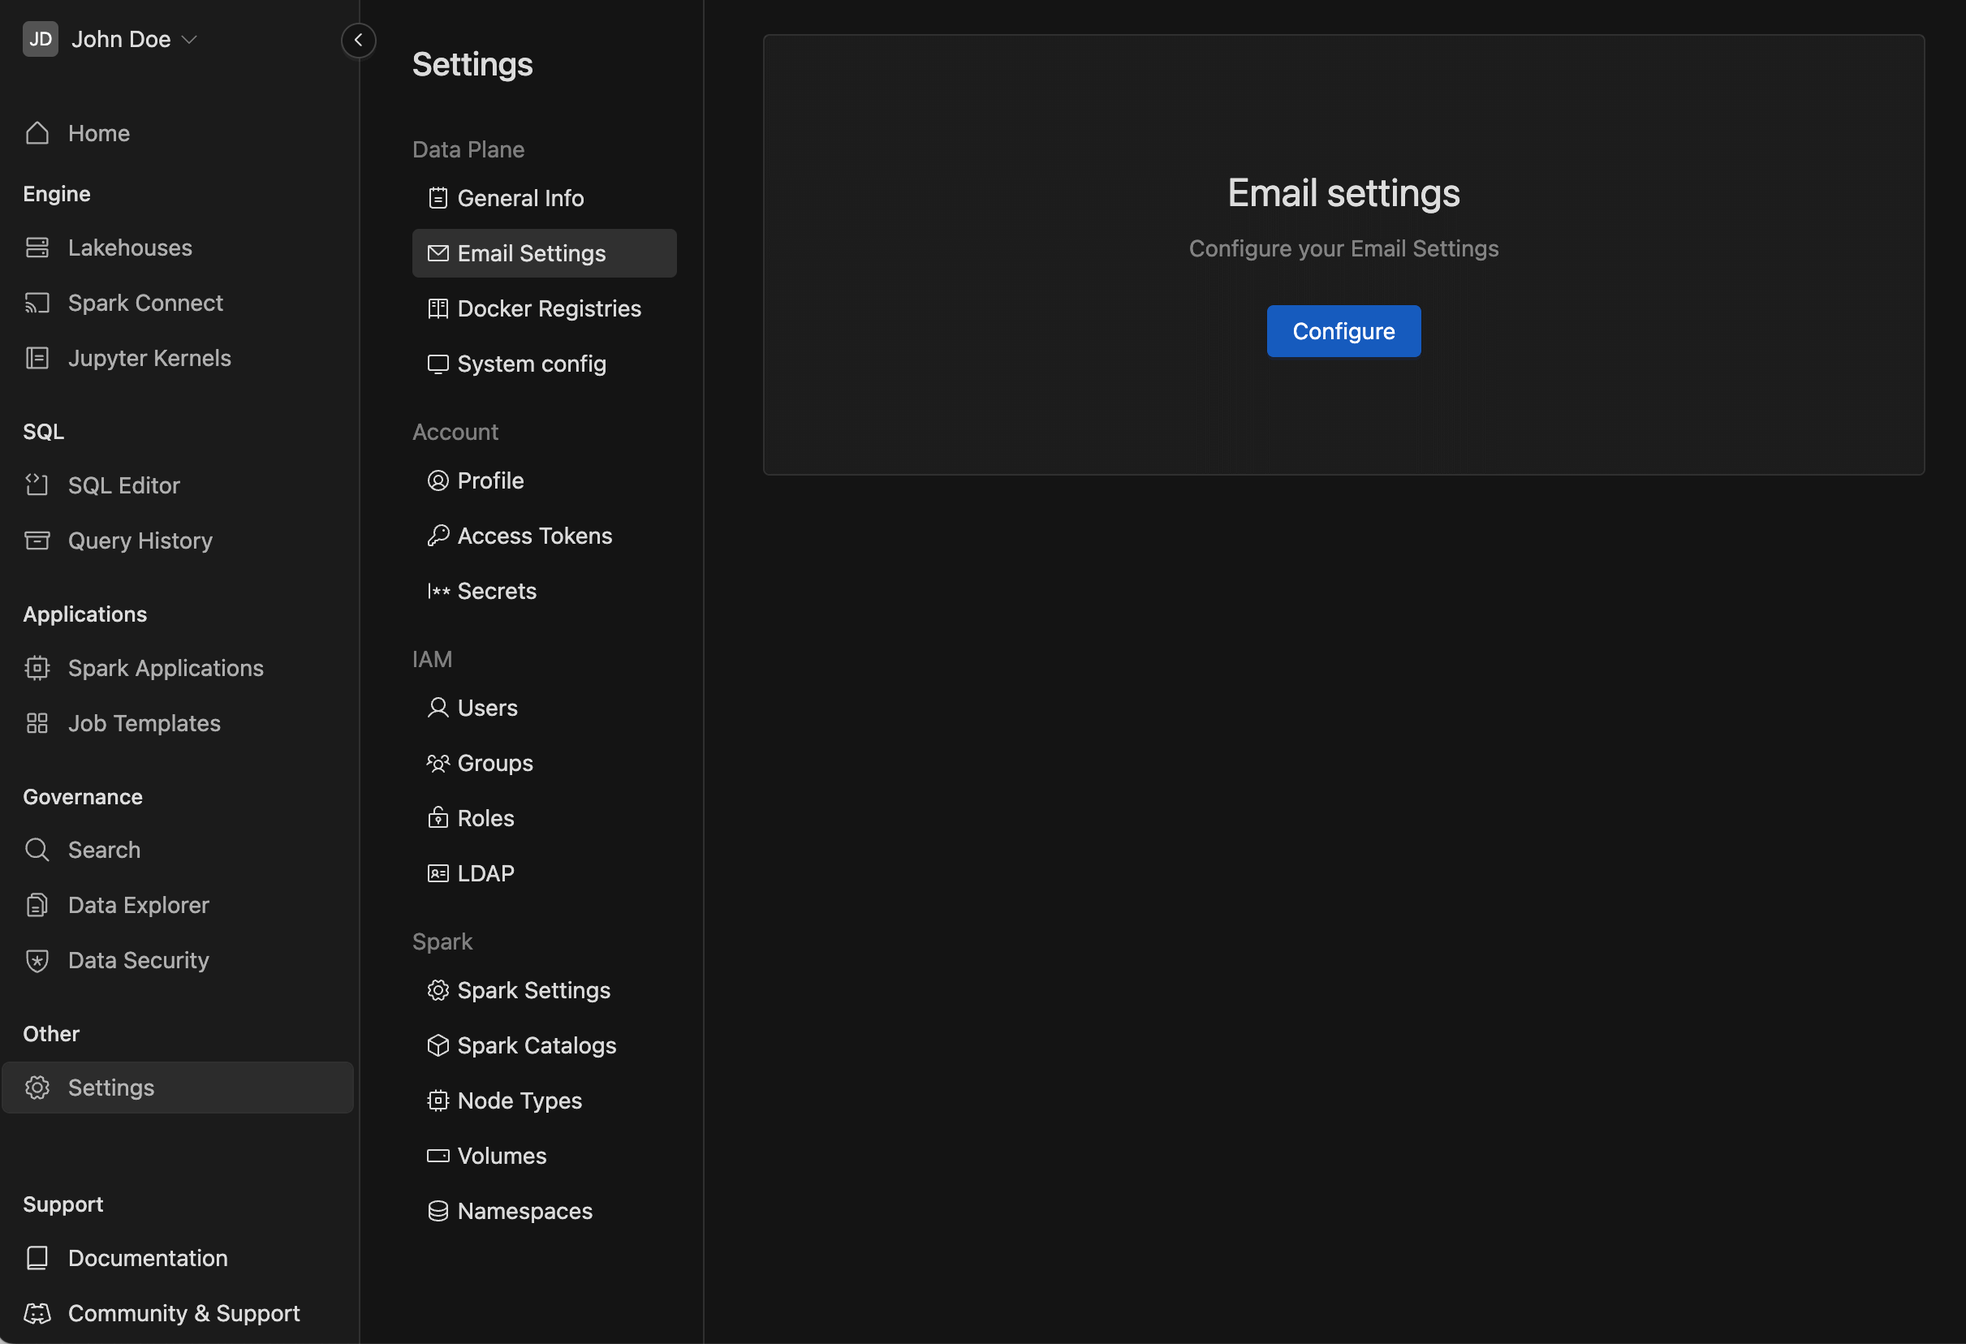
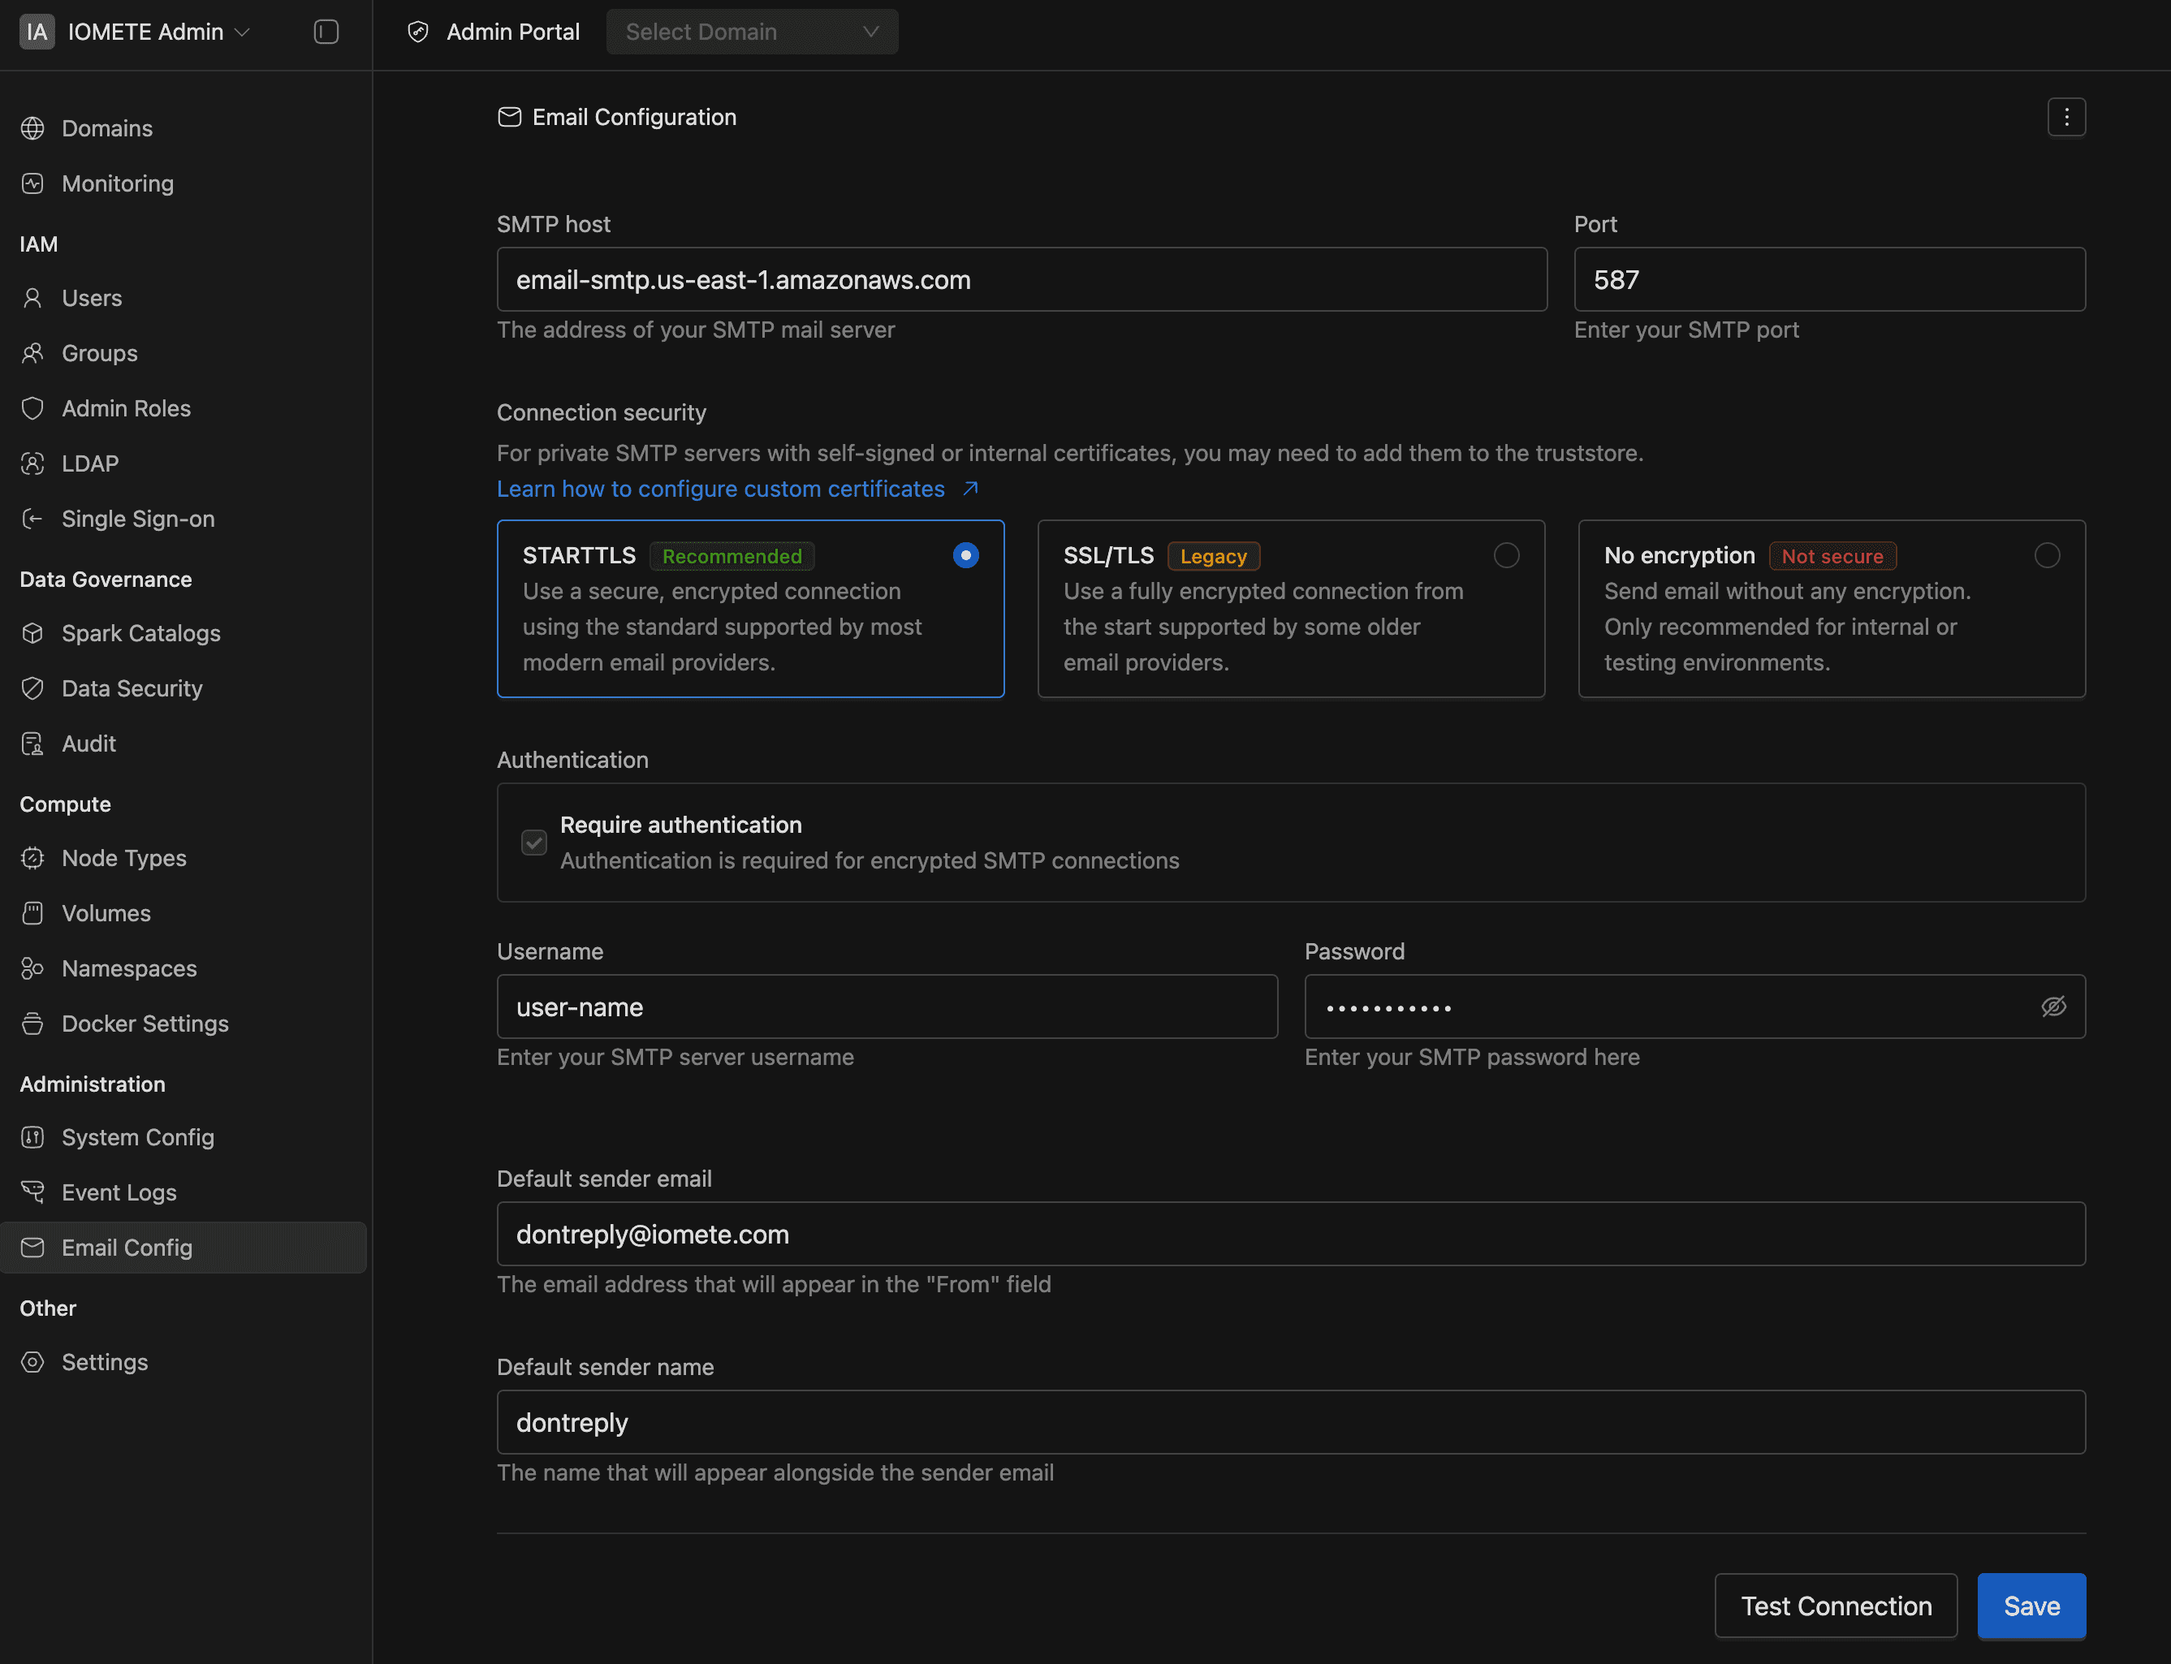
Rewrite Email Settings docs with section-level screenshots

diff --git a/docs/user-guide/email-settings.md b/docs/user-guide/email-settings.md
@@ -1,46 +1,155 @@
 ---
-title: Email Settings
-description: IOMETE offers a feature to configure your own email server.
+title: Email Configuration
+description: Configure a global SMTP server so IOMETE can send transactional and notification emails from your platform.
+sidebar_label: Email Configuration
 last_update:
-  date: 03/25/2024
-  author: Vugar Dadalov
+  date: 02/27/2026
+  author: Claude
 ---
 
-import { Trash } from "@phosphor-icons/react";
 import Img from '@site/src/components/Img';
 
-IOMETE offers a feature to configure your own email server.
+Email configuration allows IOMETE to send transactional and notification emails through your SMTP server. Only one configuration can exist at a time, and it applies across the entire account. Once configured, features such as notification settings automatically use this SMTP server for event-driven emails.
 
----
+This page acts as both the setup screen and the management view. If no configuration exists, you’ll see a blank form ready for setup. After saving, the page switches to edit mode and displays your stored values (except the password), so you can update them anytime.
 
-### Configuration
+## Configuring Email
 
-To view Email Settings, navigate to the `Settings` menu item and switch to the `Email Settings` tab.
-Click on the <button className="button button--primary button-iom">Configure</button> button to get started.
+Setting up email for the first time takes a single form. The fields are grouped into four areas: server connection, security, authentication, and sender information.
 
-<Img src="/img/user-guide/email-settings/email-settings.png" alt="Email configuration" />
+1. Go to **Admin Console** > **Email Config** in the sidebar.
+2. The form loads with defaults: connection security set to **STARTTLS**, port set to `587`, and authentication enabled.
+3. Fill in the fields described in the sections below.
+4. Click **Save**.
 
-### Configuration options
+If everything validates, a "Saved" notification appears and the form switches to edit mode.
 
-After that, you'll see the following options for configuration.
+<Img src="/img/user-guide/email-settings/email-settings.png" alt="Email Configuration overview" />
 
-- **From:** Sender Email Address
-- **From Display Name** Display Name for Sender Email Address
-- **Host** SMTP Host
-- **Port** SMTP Port
-- **User** Login Username
-- **Password** Login Password
+### SMTP Host and Port
 
-<Img src="/img/user-guide/email-settings/email-settings-inputs.png" alt="Email configuration inputs" maxWidth="600px"/>
+These two fields identify your mail server.
 
-### Test connection
+<Img src="/img/user-guide/email-settings/smtp-host-port.png" alt="SMTP host and port fields" />
 
-After filling in the input, you can test the connection by clicking the <button className="button button--default button-iom">Test connection</button> button.
+- **SMTP host** (required): your mail server's address (for example, `smtp.gmail.com`).
+- **Port** (required): the SMTP port number, from `1` to `65535`. This updates automatically when you change the security type:
 
-<Img src="/img/user-guide/email-settings/email-settings-test-connection.png" alt="Email configuration test connection" maxWidth="600px"/>
+| Security type | Suggested port |
+|---|---|
+| STARTTLS | `587` |
+| SSL/TLS | `465` |
+| No encryption | `25` |
 
-### Delete email setting
+You can always override the suggested port after selecting a security type.
 
-To delete the email setting, simply click the <button className="button button--danger button--outline button-iom"><Trash size={16} /> Delete</button> button below the inputs. Afterward, you'll receive a confirmation message; click "Yes, delete" to confirm the deletion.
+### Connection Security
 
-<Img src="/img/user-guide/email-settings/email-settings-delete.png" alt="Email configuration delete" maxWidth="600px"/>
+This controls how the connection between IOMETE and your SMTP server is encrypted. Three options appear as radio cards:
+
+<Img src="/img/user-guide/email-settings/connection-security.png" alt="Connection security options" />
+
+- **STARTTLS** (recommended): a secure, encrypted connection supported by most modern email providers. This is the default.
+- **SSL/TLS** (legacy): a fully encrypted connection from the start, supported by some older providers.
+- **No encryption** (not secure): sends email without encryption. Use this only for internal or testing environments.
+
+:::info Self-Signed Certificates
+If your SMTP server uses a self-signed or internal certificate, add it to the [truststore](/resources/deployment/truststore).
+:::
+
+Changing the security type has two side effects:
+
+1. The **Port** field updates to the suggested port for that type.
+2. If you select anything other than **No encryption**, the **Require authentication** checkbox locks on and can't be unchecked.
+
+### Authentication
+
+<Img src="/img/user-guide/email-settings/authentication.png" alt="Authentication settings" />
+
+The **Require authentication** checkbox controls whether IOMETE sends credentials to the SMTP server.
+
+- With **STARTTLS** or **SSL/TLS**, authentication is required. The checkbox stays checked and disabled, showing the message: "Authentication is required for encrypted SMTP connections."
+- With **No encryption**, you can uncheck the box to allow anonymous connections.
+
+When authentication is on, two extra fields appear:
+
+- **Username** (required): your SMTP server username.
+- **Password** (required): your SMTP server password.
+
+### Sender Information
+
+<Img src="/img/user-guide/email-settings/sender-information.png" alt="Sender information fields" />
+
+These fields control the "From" line on outgoing emails.
+
+- **Default sender email** (required): the address that appears in the "From" field (for example, `noreply@example.com`). Must be a valid email format.
+- **Default sender name** (required): the display name shown alongside the sender email (for example, `Example Company`).
+
+## Updating the Configuration
+
+If a configuration already exists, the form loads in edit mode with your stored values pre-filled. Here's what to do when you need to change something.
+
+1. Go to **Admin Console** > **Email Config**.
+2. Modify whatever fields you need.
+3. Re-enter your SMTP password. The password field is always cleared on page load for security, so you'll see a "Re-enter your SMTP password" placeholder.
+4. Click **Update**.
+
+If the update succeeds, a "Saved" notification appears.
+
+:::warning Password Re-Entry Required
+You must re-enter your SMTP password every time you update the configuration. The stored password is never sent back to the browser. If you click **Update** without entering the password, validation blocks the submission.
+:::
+
+## Testing the Connection
+
+Before you commit to saving, try firing off a test email to verify your SMTP settings. The test uses the current form values without persisting them, so it's safe to experiment.
+
+1. Fill in all required fields in the email configuration form.
+2. Click **Test Connection** (in the form footer, next to **Save** or **Update**).
+3. If any required fields are empty or invalid, a notification reads: "Please fill in all required email configuration fields first." Fix the errors and try again.
+4. If validation passes, a **Test Connection** modal opens.
+
+<Img src="/img/user-guide/email-settings/test-connection.png" alt="Test Connection modal" />
+
+5. The **Select email recipients** field is pre-filled with your email address. Change it to any valid address if you prefer.
+6. Click **Send Test Email**.
+
+If the test succeeds, a notification confirms: "Connection successful! A test email was sent, please check your inbox." The modal closes and a green checkmark appears on the **Test Connection** button.
+
+The test email arrives with the subject "IOMETE Email Configuration Test" and a message confirming your email integration works.
+
+:::info Test Doesn't Save
+The test sends form values directly to your SMTP server without saving them. You still need to click **Save** or **Update** to persist the configuration.
+:::
+
+## Deleting the Configuration
+
+If you no longer need email, deleting the configuration removes all stored SMTP settings. Any features that depend on email (like notification settings) stop sending until you create a new configuration.
+
+1. Click the **actions menu** (three-dot icon) at the top-right corner of the page.
+2. Click **Delete config**.
+3. A confirmation dialog asks: "Are you sure?"
+4. Click **Yes, delete it** to confirm, or **Cancel** to back out.
+
+After deleting, the form resets to create mode so you can set up a new configuration right away.
+
+:::warning Immediate Deletion
+Deleting the email configuration takes effect immediately. Any active notification settings that rely on email delivery stop working until you configure a new SMTP server.
+:::
+
+## Access Permissions
+
+Only administrators can manage email configuration. The table below lists the required roles for each action.
+
+| Action | Required role | Description |
+|---|---|---|
+| View configuration | Any admin role | Any user with Admin Console access can view the email configuration. |
+| Create or update | `ADMINISTRATION_MANAGER` | Needed to save or modify the SMTP configuration. |
+| Delete | `ADMINISTRATION_MANAGER` | Needed to remove the configuration. |
+| Test connection | `ADMINISTRATION_MANAGER` | Needed to send a test email. |
+
+The `ADMINISTRATION_MANAGER` role covers system configurations and event logs. Users without it can view the form but can't make changes.
+
+## Related Resources
+
+- [Truststore](/resources/deployment/truststore): add self-signed or internal certificates so IOMETE can connect to private SMTP servers over encrypted connections.
